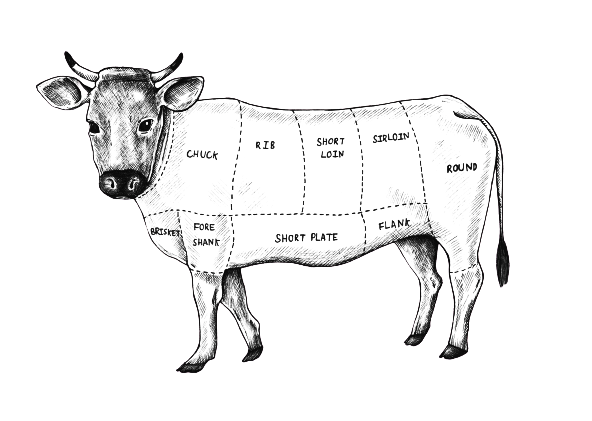
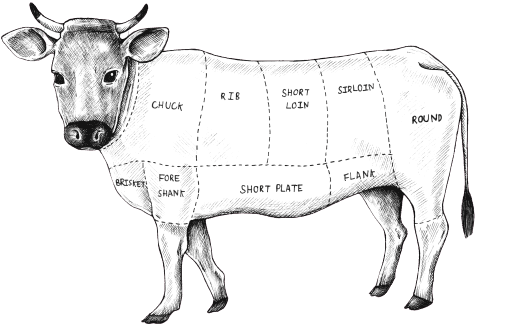
fixed

Changed region(s): [[0.0, 0.0, 0.9393, 1.0]]

diff --git a/dev/templates/animal.html b/dev/templates/animal.html
@@ -7,93 +7,99 @@
         </ul>
     </div>
     <div class="animals-container">
-        <svg class="animals-build img-fluid hidden" id="tab-1" xmlns="http://www.w3.org/2000/svg" xmlns:xlink="http://www.w3.org/1999/xlink" width="550" height="550"  viewBox="0 0 250 250" fill="none">
-            <g id="chicken">
-                <rect id="image-from-rawpixel-id-2764551-original 1" width="250" height="250" fill="url(#pattern1)"/>
-                <path class="chicken-part" id="Chicken-part_1" data-body-chicken="drumstick" data-weight-chicken="180-190g" data-quantity-chicken="11" 
-                    d="M120.5 144L115.5 140L114.5 144.5V148.5L115 151L114.5 153.5V157.5C114.5 157.9 115.833 162.667 116.5 165L118 169.5L120.5 176L123 181.5L126 185.5L131.5 189.5L137 193L140 194.5H143L144 197.5L146.5 204C147.333 206.5 149 211.6 149 212C149 212.4 150.667 216.833 151.5 219L153 225.5L153.5 228.5L152.5 231L151 232.5L148.5 233L147 234.5L143.5 235.5L140.5 236.5L137.5 237.5L135 238L134 239.5L135 240L134 242H135L136.5 240.5L139 240L140.5 239.5L143 239L146 237.5L148 236.5H150L151.5 237.5L150 238.5L148 239.5L146.5 241L146 243.5L146.5 244V246H147.5L148 243.5L149.5 241.5L151.5 240.5L155.5 239L158.5 237.5L161.5 233L162.5 231.5H164.5V230L163 229.5L161.5 228.5L160 227L159 224L157.5 218L156 193.5H157L163 190.5L168 187L173 183L179.5 178L186 172L187 168L188 161L187 154L184 151.5L183 148.5L179.5 145L178 144.5V147.5V150L176.5 151.5L174.5 153H172.5H170L166 152.5L163 151.5L159 151L154.5 150H148.5H142.5L137.5 149.5L132.5 149L126 147L120.5 144Z" />
-                <path class="chicken-part" id="Chicken-part_2" data-body-chicken="wing" data-weight-chicken="140-150g" data-quantity-chicken="17" 
-                    d="M95.5 118L92.5 121V122H95L97.5 123L99.5 125L102.5 128L108 133.5C108.4 133.9 113.167 138 115.5 140L118.5 142.5L122 144.5L127 147L132.5 149L138.5 149.5L143.5 150H147H152L155.5 150.5L158.5 151L162.5 151.5L165.5 152.5L168 153H170.5H173L175.5 152L176.5 151L178 149.5V147.5V145.5L178.5 144L178 141.5L176.5 139L177 135V131.5L176 127L174 122.5L172 118L168.5 115L163 108L161 105.5L158 103L156 101.5L154 100.5L151.5 99.5L148.5 98L145.5 97H142L138.5 97.5L133 99L128.5 101H126.5L122 103L119 103.5L114.5 105.5L111 107.5L106 109.5L102 112.5L95.5 118Z" />
-                <path class="chicken-part" id="Chicken-part_3" data-body-chicken="breast" data-weight-chicken="170-184g" data-quantity-chicken="Out of order" 
-                    d="M40.5 111L40 108.5L43 109L47 108.5L50.5 107.5L57 106L62 104.5L66 103L71 101.5V103L72.5 105.5L75 108.5L77.5 111L80.5 114L83.5 116.5L87.5 119L92 121.5L95 122L97.5 123L100 125.5L103.5 129L108 133.5L115.5 140L115 142.5L114.5 146.5L114 149L114.5 150.77V152.716L114 154.5L114.5 156.5L115 159L115.5 161.5L116.5 164L117 165.5L118 168V169.5L119.5 172L120 174L121 176V177L122.5 180L123.5 182L121.5 181.5L119.5 181H116.5L114 180.5H111.5H107L101.5 180L94 179.5L89 179L79.5 174.5L73.5 169.5L65 159L57.5 149L54.5 144.5L51.5 139L49.5 135.5L48 133L47 129.5L45.5 125.5L43.5 120L41.5 114.5L40.5 111Z" />
-                <path class="chicken-part" id="Chicken-part_4" data-body-chicken="tender loin" data-weight-chicken="80-100g" data-quantity-chicken="12" 
-                    d="M95 89.5L92.5 86L89 89.5L85.5 92L81 95.5L77 98L73.5 100L71 101.5V103L72.5 105.5L74.5 108L77 110.5L80 113.5L82.5 115.5L84.5 117.5L89 120L92 121.5L92.5 120.5L94 119L97 116.5L100 114L102.5 112L104.5 110.5L107 109L112 107L116.5 104.5L122 103L124 102L127.5 101L127 100L125.5 99.5H122.5H117.5H112.5L109 99L107 98.5L105 97.5L102.5 96.5L99.5 94L97 92L95 89.5Z"/>
-                <path class="chicken-part" id="Chicken-part_5" data-body-chicken="thigh" data-weight-chicken="210-230g" data-quantity-chicken="9" 
-                    d="M213.5 122.5L215 118H212.825L210.5 117L207.5 115.5L204 113.5L202 112L200.5 111L199 110L197 108L194.5 113L193 115.5L191 119L186.5 124.5L183 129.5L177 133V134V137L176.5 139L178 141.5L178.5 144L180 145.5L181.5 147L183.5 149L184.5 151.5L187 154L187.5 157.5L188 162L187.5 165L187 167.5L186.5 168.5L186 170.5V172L187 171L188.5 170L190 169L191.5 167.5L194 164.5L196.5 161.5L197 160.5L198.5 157L200 154L202.5 149L204.5 144.5L208 135.5L209.5 132.5L210 130.5L211.5 128.5L213 125.5L212.5 124.5L213.5 122.5Z" />
-                <path class="chicken-part" id="Chicken-part_6" data-body-chicken="tail" data-weight-chicken="2.5-4g" data-quantity-chicken="34" 
-                    d="M181 87L176.5 88L178 90L179.5 92L181 93.5L183 95.5L185.5 98L188 100.5L190.5 102.5L194 105L197 107.5L198 109C199.333 110.167 202.1 112.5 202.5 112.5C202.9 112.5 204.667 113.833 205.5 114.5L209.5 116.5L211.5 117.5L213.5 118H214.5L215 117.5L216 116.5L216.5 115L217.5 113.5L218 112L218.5 110L219 108.5L220 107.5L223 104.5L224.5 103.5L225.5 103L227 102L228 100.5L227 100L227.5 99.5L228 98.5L229 98L229.5 97L230.5 95.5V94.5H229.5V93.5L230 93L230.5 92.5L231 91.5L231.5 90.5V89.5H230.5V88L230 87.5V86.5V86L230.5 85L230 84.5L229.5 84V83L230 82.5V81.5V80.5L229.5 80L230.5 79H230L228.5 79.5L228 79L231 76.5L229 75.5L232 73.5V72L229 71L231 68.5H226V67H222.5H219L214 68.5L209 71L204 73.5L199.5 75.5L195.5 78.5L191.5 81.5L185.5 84.5L181 87Z" />
-                <path class="chicken-part" id="Chicken-part_7" data-body-chicken="back" data-weight-chicken="440-453g" data-quantity-chicken="18" 
-                    d="M101 81.5L98.5 78L95 83L92.5 86L96 91L101.5 95.5L107.5 98L113 99.5H118.5H123H126L128 101L131.5 99.5L136.5 98L141 97H145L148 98L151.5 99.5L156.5 102L160 105L165 110L168 114L172 118L175.5 126L177.5 133L180 131.5L183.5 129L185.5 126L188 122.5L191.5 118L194 114L196 110L197 107.5L196 106.5L191.5 103.5L187 99.5L183.5 96L180 92.5L176.5 88H170L163 87C160.167 86.3333 154.3 85 153.5 85H146H137.5L131.5 86L124 87H118.5H115L109.5 86L104.5 84L101 81.5Z"/>
-                <path class="chicken-part" id="Chicken-part_8" data-body-chicken="neck" data-weight-chicken="25-35g" data-quantity-chicken="24" 
-                    d="M40.5 83L37.5 82V83V89V94V99L38.5 105L40.5 109H43.5L48.5 108L53.5 107L59.5 105L65.5 103L71.5 101L77 98L83 94L89.5 89L93 85.5L97 81L98.5 77.5L97 75.5L94.5 69.5C93.8333 68 92.3 64.8 91.5 64C90.7 63.2 89.8333 60 89.5 58.5L87 52.5L84 46.5L82 51L80 54.5C79.3333 55.5 77.8 57.7 77 58.5C76.2 59.3 75.3333 60.8333 75 61.5L71.5 65L67 69.5L63.5 72L59.5 74.5L55 77.5L51 79.5L47 81L43.5 82L40.5 83Z"/>
-            </g>
-            <defs>
-                <pattern id="pattern1" patternContentUnits="objectBoundingBox" width="1" height="1">
-                    <use xlink:href="#image0_3_50" transform="scale(0.000333333)"/>
-                </pattern>
-                <image id="image0_3_50" class="image-fluid" data-name="image-from-rawpixel-id-2764551-original.png" width="3000" height="3000" xlink:href="assets/img/chicken.png"/>
-            </defs>
-        </svg>
-        <svg class="animals-build img-fluid hidden" id="tab-2" xmlns="http://www.w3.org/2000/svg" xmlns:xlink="http://www.w3.org/1999/xlink" width="546" height="366" viewBox="0 0 546 366" fill="none">
-            <g id="pig">
-                <rect id="image-from-rawpixel-id-2764531-original 1" width="546" height="366" fill="url(#pattern2)"/>
-                <path class="pig-part" id="pig-part_1"  data-body-pig="hock" data-weight-pig="0,9-1,3kg" data-quantity-pig="69"
-                    d="M410.28 265.088V257.246L417.3 261.951H427.44H438.36H453.18L464.1 260.383L461.76 265.088L464.1 273.716L469.56 279.206V283.911V287.833L467.22 294.891L464.1 303.518H459.42H452.4H444.6H438.36L433.68 301.166H427.44V294.891L425.1 287.833L421.98 283.911L417.3 279.206L413.4 273.716L410.28 265.088Z"/>
-                <path class="pig-part" id="pig-part_2"  data-body-pig="ham" data-weight-pig="4-8kg" data-quantity-pig="24"
-                    d="M422.76 46.2728H413.4L416.52 58.8214L420.42 69.0171V76.86V88.6243V98.82V104.31L418.08 110.584L416.52 120.78L414.18 128.623L413.4 134.897L411.06 143.524V149.799H408.72V154.504V160.779L405.6 166.269L402.48 176.464L400.14 185.876L397.8 196.071L394.68 206.267V217.247L397.8 228.227L402.48 231.364L405.6 238.423L408.72 247.834L411.06 256.461L414.18 259.599L420.42 261.951H426.66H432.9H439.92H447.72H454.74L463.32 259.599V253.324L466.44 243.129L470.34 231.364L476.58 223.521L483.6 214.11L489.06 206.267L494.52 196.071L501.54 183.523L506.22 170.19L512.46 154.504V140.387V123.917L510.12 112.153L506.22 98.82L500.76 88.6243L492.96 76.86L482.04 69.0171L475.8 63.5271L463.32 55.6843L451.62 52.5471L436.8 48.6257L422.76 46.2728Z"/>
-                <path class="pig-part" id="pig-part_3"  data-body-pig="bacon" data-weight-pig="15-18kg" data-quantity-pig="56"
-                    d="M230.1 236.854L235.56 248.619L251.94 250.972H265.98H285.48H301.86H314.34L324.48 248.619H336.18H346.32H354.9L367.38 244.697H375.96L386.88 243.129L400.92 239.992L405.6 236.854L400.92 229.796L396.24 224.306L395.46 215.679V207.836L397.8 196.072L400.92 181.954L405.6 168.622L408.72 159.21V152.152L400.92 145.877H393.12L383.76 142.74V148.23L380.64 152.152L377.52 159.21L370.5 172.543L359.58 185.092L351.78 191.366L346.32 196.072L343.98 200.777L336.18 205.483L320.58 215.679L308.1 221.169L297.18 226.659L285.48 229.796H275.34H265.98H256.62H247.26L235.56 226.659H225.42L230.1 236.854Z"/>
-                <path class="pig-part" id="pig-part_4"  data-body-pig="spareribs" data-weight-pig="0,9-1,8kg" data-quantity-pig="13"
-                    d="M382.98 147.446V141.956L372.06 139.603H364.26H359.58H349.44L340.08 137.25L330.72 136.466H314.34H298.74H284.7H273.78H262.08H252.72H243.36H236.34V141.956V153.72L233.22 167.053V180.386L232.44 190.581L230.1 196.071V203.914L228.54 216.463L224.64 226.659H232.44L243.36 229.011H257.4H269.88H280.8H288.6L294.84 226.659L308.1 221.169L319.02 216.463L326.82 211.757L333.84 207.051L342.42 201.561L346.32 196.071L351.78 190.581L359.58 184.307L364.26 178.033L368.94 172.543L372.06 167.053L376.74 159.21L379.86 153.72L382.98 147.446Z"/>
-                <path class="pig-part" id="pig-part_5"  data-body-pig="pork loin" data-weight-pig="3,7-4,5kg" data-quantity-pig="Out of order"
-                    d="M420.42 105.879V98.82L414.96 97.2515L409.5 96.4672H404.04L394.68 94.8986H389.22H379.08H370.5H360.36L357.24 96.4672H348.66L340.86 95.6829H333.06H326.04H321.36H315.12L306.54 92.5457H297.18H289.38H277.68H269.88L264.42 90.9772L261.3 92.5457H250.38H239.46L232.44 95.6829L234 101.957L232.44 109.8L234 115.29L236.34 123.917V135.681H239.46H244.14H247.26H253.5H258.18H267.54H277.68L284.7 137.25H291.72H301.86H309.66H319.02H329.16H340.86L350.22 139.603H361.92H370.5L381.42 141.956L391.56 144.309L399.36 145.877L404.04 148.23L409.5 150.583L411.84 148.23V141.956L413.4 137.25V133.329L416.52 123.917L418.08 112.937L420.42 105.879Z"/>
-                <path class="pig-part" id="pig-part_6"  data-body-pig="back" data-weight-pig="0,9-1,2kg" data-quantity-pig="23"
-                    d="M231.66 81.5657V94.1143L241.02 92.5457H246.48H255.84L265.98 90.9771L272.22 92.5457H281.58H290.16H298.74H308.1L316.68 94.1143L326.82 95.6828H335.4H341.64H348.66H354.12L358.8 94.1143H364.26H368.94H375.96H382.98H387.66H397.02L404.04 95.6828H408.72L419.64 98.82V94.1143V87.84V81.5657V69.8014L417.3 61.1743L414.96 52.5471L412.62 47.0571H409.5H404.04H387.66L358.8 49.41L335.4 52.5471L309.66 54.9H283.92H265.2H258.96H250.38H241.02H231.66H221.52L224.64 61.1743L228.54 69.8014L231.66 81.5657Z"/>
-                <path class="pig-part" id="pig-part_7"  data-body-pig="boston butt" data-weight-pig="2,7-3,6kg" data-quantity-pig="20"
-                    d="M156.78 169.406V174.896L163.02 177.249L175.5 180.386L188.76 184.307L202.02 187.444L216.84 191.366L223.08 194.503L229.32 199.209L231.66 196.071L233.22 187.444V178.817V169.406L235.56 159.994V148.23V137.25V122.349L233.22 111.369V102.741L231.66 95.6829H224.64H216.84H209.04L202.02 92.5458H191.88L183.3 90.1929L177.06 87.8401H170.82L161.46 86.2715L159.12 90.1929L161.46 98.0358L163.8 105.094V114.506V122.349L161.46 127.054V130.976V137.25V145.093L159.12 152.936V159.994L156.78 169.406Z"/>
-                <path class="pig-part" id="pig-part_8"  data-body-pig="hock" data-weight-pig="0,9-1,3kg" data-quantity-pig="69"
-                    d="M181.74 255.677L179.4 250.187H190.32H202.8H216.06L233.22 255.677V266.657L231.66 273.716L228.54 280.774V287.833L223.86 295.676L216.06 292.539H210.6L205.14 290.186H198.9L190.32 287.833V277.637L186.42 268.226L184.86 261.951L181.74 255.677Z"/>
-                <path class="pig-part" id="pig-part_9"  data-body-pig="picnic ham" data-weight-pig="2,2-3,6kg" data-quantity-pig="31"
-                    d="M162.24 178.033L155.22 175.68L156.78 192.15L155.22 207.051L159.12 218.816L165.36 225.09L170.82 230.58L176.28 239.991L178.62 249.403H189.54H205.14L222.3 251.756L233.22 255.677L235.56 249.403L233.22 244.697L230.1 236.07L224.64 225.09L226.98 218.816L230.1 213.326V204.699V197.64L224.64 195.287L215.28 192.15L205.14 189.013L195.78 186.66L187.2 184.307L178.62 181.954L170.82 179.601L162.24 178.033Z"/>
-                <path class="pig-part" id="pig-part_10" data-body-pig="jowl" data-weight-pig="0,5-1kg" data-quantity-pig="1" 
-                    d="M70.9797 180.386L63.1797 182.739L70.9797 189.013L83.4597 194.503L94.3797 198.424L102.96 204.699L121.68 218.031L138.06 224.306L150.54 229.796L160.68 233.717L166.92 236.07L175.5 237.639L172.38 233.717L166.92 227.443L160.68 221.953L159.12 214.894L156 204.699V196.856V186.66V179.601L154.44 175.68H147.42L138.06 173.327H132.6H127.92H121.68H116.22L109.2 175.68H93.5997L83.4597 178.033L70.9797 180.386Z"/>
-            </g>
-            <defs>
-                <pattern id="pattern2" patternContentUnits="objectBoundingBox" width="1" height="1">
-                    <use xlink:href="#image0_7_2" transform="matrix(0.000335165 0 0 0.0005 -0.00274725 0)"/>
-                </pattern>
-                <image id="image0_7_2" data-name="image-from-rawpixel-id-2764531-original.png" width="3000" height="2000" xlink:href="assets/img/pig.png" />
-            </defs>
-        </svg>
-        <svg class="animals-build img-fluid hidden" id="tab-3" xmlns="http://www.w3.org/2000/svg" xmlns:xlink="http://www.w3.org/1999/xlink" width="2083" height="1467" viewBox="0 0 2083 1467" fill="none">
-            <g id="cow">
-                <rect id="image-from-rawpixel-id-406178-jpeg-removebg-preview 1" width="2083" height="1467" fill="url(#pattern3)"/>
-                <path class= "cow-part" id="cow-part_1" data-body-cow="brisket" data-weight-cow="4,5-7,2kg" data-quantity-cow="31"
-                    d="M624.899 751.471V730.842L589.191 733.789L547.531 742.63L514.798 751.471L505.871 763.258L514.798 792.728L529.677 833.985L553.482 863.454L571.337 881.136L592.167 892.924L610.021 898.818L627.875 907.659L657.632 922.393V898.818L654.657 878.189L639.778 836.932L642.754 822.197L633.827 780.94L630.851 763.258L624.899 751.471Z" />
-                <path class= "cow-part" id="cow-part_2" data-body-cow="fore shank" data-weight-cow="9,07-10,2kg" data-quantity-cow="84"
-                    d="M812.37 766.205V754.418V751.471H788.564H764.758H743.928H729.05L702.268 745.577L690.366 742.63L657.633 733.789L639.778 730.842H633.827H624.9V733.789V754.418L630.851 763.258L633.827 783.887L636.803 804.516L639.778 819.25V836.932L645.73 851.667L654.657 878.189L657.633 898.818V919.446L660.608 928.287L666.56 934.181L675.487 940.075L690.366 945.969L714.171 948.916L743.928 951.863H764.758H782.613L788.564 943.022L794.516 937.128L800.467 913.552L809.394 892.924L821.297 863.454V842.826V807.463V780.94L812.37 766.205Z" />
-                <path class= "cow-part" id="cow-part_3" data-body-cow="short plate" data-weight-cow="28,2-30,7kg" data-quantity-cow="24"
-                    d="M1279.56 772.099L1267.65 739.682L1246.82 745.576L1220.04 748.523H1163.5H1086.14L1062.33 745.576H999.84H955.204H928.423H904.617L874.86 748.523H859.982H839.152L812.37 751.47V766.205L818.322 777.993L821.297 804.515V831.038V854.613L818.322 866.401L812.37 881.136L809.394 892.923L803.443 904.711L797.492 922.393L794.516 937.128L809.394 934.181L845.103 931.234L883.787 922.393L913.544 916.499L943.302 910.605H961.156H990.913H1011.74L1035.55 916.499H1053.4L1074.23 922.393L1101.01 928.287H1121.84H1145.65C1148.63 929.269 1156.36 930.644 1163.5 928.287C1170.65 925.929 1190.29 923.375 1199.21 922.393L1217.07 916.499L1240.87 904.711L1261.7 892.923L1282.53 881.136V863.454L1285.51 842.825V813.356V792.727L1279.56 772.099Z" />
-                <path class= "cow-part" id="cow-part_4" data-body-cow="flank" data-weight-cow="0,34-0,64kg" data-quantity-cow="79"
-                    d="M1502.74 713.16L1496.78 707.267L1475.95 710.214H1461.08H1440.25C1433.3 711.196 1418.82 713.16 1416.44 713.16C1413.46 713.16 1407.51 713.16 1398.59 716.107C1391.44 718.465 1385.69 719.054 1383.71 719.054H1371.8L1356.93 722.001L1339.07 724.948L1318.24 730.842L1300.39 733.789H1282.53L1267.65 739.683L1270.63 742.63L1276.58 760.312L1282.53 775.046L1285.51 786.834V813.357V842.826V854.614L1282.53 863.455V869.348V884.083L1294.44 878.189C1304.35 874.26 1324.79 865.812 1327.17 863.455C1329.55 861.097 1344.03 856.578 1350.97 854.614L1371.8 848.72L1392.63 839.879L1404.54 833.985L1419.42 831.038L1434.29 825.144H1446.2L1461.08 819.25H1475.95L1490.83 816.303H1502.74L1517.61 819.25V813.357L1514.64 795.675L1511.66 777.993L1508.69 766.205L1505.71 748.524L1502.74 727.895V713.16Z" />
-                <path class= "cow-part" id="cow-part_5" data-body-cow="round" data-weight-cow="80,2-88,4kg" data-quantity-cow="51"
-                    d="M1431.32 350.687H1407.51L1416.44 374.262L1437.27 409.625L1458.1 462.67L1481.91 548.132L1478.93 562.866V586.442L1484.88 615.911L1487.86 633.593L1490.83 657.169L1496.78 677.797V698.426L1502.74 713.16V730.842C1503.73 736.736 1505.71 749.703 1505.71 754.418C1505.71 760.312 1511.66 769.152 1511.66 772.099C1511.66 774.457 1513.65 784.869 1514.64 789.781L1517.61 813.356L1523.57 825.144L1535.47 836.932L1550.35 851.667L1562.25 863.455L1568.2 878.189L1577.13 892.924L1583.08 910.606L1580.1 948.916H1589.03L1609.86 945.969L1627.72 940.075L1651.52 934.181L1663.42 925.34L1684.25 919.446L1681.28 910.606V872.295L1699.13 810.41L1731.87 630.646L1743.77 586.442L1746.74 527.503V503.928C1742.78 496.069 1734.84 479.763 1734.84 477.405C1734.84 475.048 1720.96 456.776 1714.01 447.936L1690.21 418.466C1689.21 411.59 1686.64 397.838 1684.25 397.838C1681.28 397.838 1660.45 377.21 1657.47 374.262L1657.47 374.262C1654.5 371.315 1642.59 362.474 1636.64 359.527C1631.88 357.17 1622.76 348.722 1618.79 344.793L1600.93 338.899L1586.06 333.005H1556.3H1544.4L1529.52 338.899L1514.64 341.846C1511.66 342.828 1504.52 344.793 1499.76 344.793H1481.91H1467.03H1452.15H1440.25C1437.87 344.793 1433.3 348.722 1431.32 350.687Z" />
-                <path class= "cow-part" id="cow-part_6" data-body-cow="sirloin" data-weight-cow="6,5-7,4k" data-quantity-cow="31"
-                    d="M1249.8 377.209H1228.97L1237.9 391.943L1246.82 409.625L1252.78 424.36L1258.73 450.882L1264.68 474.458L1276.58 551.078V571.707V621.805L1273.61 654.221L1270.63 692.531L1267.65 722.001V739.683L1285.51 733.789H1303.36C1305.74 733.789 1324.19 729.859 1333.12 727.895L1353.95 722.001L1386.68 719.054L1410.49 713.16L1440.25 710.213H1467.03L1493.81 707.266V686.638V668.956L1487.86 639.487L1484.88 621.805L1481.91 598.229L1478.93 574.654V548.131L1472.98 521.609L1467.03 500.98L1461.08 477.405L1455.12 453.829L1446.2 436.147L1437.27 409.625L1428.34 394.89L1419.42 377.209L1413.46 365.421L1407.51 353.633H1395.61L1389.66 356.58H1380.73L1371.8 362.474H1356.93H1348L1330.14 368.368L1306.34 371.315H1288.48L1267.65 374.262L1249.8 377.209Z" />
-                <path class= "cow-part" id="cow-part_7" data-body-cow="short loin" data-weight-cow="9-12kg" data-quantity-cow="Out of order"
-                    d="M1050.43 383.102H1029.6V397.837L1038.52 406.678L1047.45 421.413L1053.4 442.041L1059.35 465.617L1065.31 498.033L1068.28 533.397L1071.26 559.919V610.017V645.38V686.638L1068.28 716.107L1059.35 745.576L1083.16 748.523H1101.01H1124.82H1148.63H1169.46H1217.07L1243.85 745.576L1267.65 739.682V722.001L1270.63 695.478L1273.61 671.903L1276.58 627.699V607.07V580.548V556.972L1273.61 533.397L1270.63 506.874L1267.65 486.245L1261.7 465.617L1258.73 450.882L1255.75 436.147L1252.78 421.413L1243.85 400.784L1237.9 388.996L1231.95 380.156C1224.01 381.138 1207.54 383.102 1205.16 383.102H1172.43H1145.65H1118.87H1080.18H1050.43Z" />
-                <path class= "cow-part" id="cow-part_8" data-body-cow="rib" data-weight-cow="16,2-18,4kg" data-quantity-cow="23"
-                    d="M851.055 353.633L833.2 344.792L836.176 350.686L848.079 368.368V394.89V486.245L842.128 509.821V527.503L833.2 556.972L836.176 571.707L830.225 589.388C828.241 598.229 824.273 616.5 824.273 618.858C824.273 621.215 818.322 639.487 815.346 648.327V677.797V701.372V733.789V751.47L854.03 748.523H883.788L913.545 745.576H955.205H987.938H1014.72H1041.5H1062.33L1068.28 713.16L1071.26 689.585V663.062V642.433V618.858V589.388L1068.28 527.503L1065.31 500.98L1062.33 474.458L1056.38 450.882L1050.43 427.307L1044.48 412.572L1032.57 397.837L1029.6 383.102H1020.67H999.84L981.986 380.156L967.108 377.209H949.253H934.375L916.52 371.315L889.739 368.368L868.909 362.474L851.055 353.633Z" />
-                <path class= "cow-part" id="cow-part_9" data-body-cow="chuck" data-weight-cow="45-47kg" data-quantity-cow="33"
-                    d="M612.997 421.413L607.046 383.102L624.9 388.996L645.73 383.102L669.536 374.262L687.39 362.474L693.341 344.792H723.099H758.807H788.564H833.2L848.079 365.421V397.837V421.413V453.829V486.245L842.127 509.821V527.503L833.2 554.025V571.707L827.249 598.229L821.297 624.752L815.346 648.327V674.85V713.16V751.47H806.419H782.613H758.807H732.026L702.269 745.576L669.536 736.736L639.779 730.842H618.949H598.119L577.289 736.736L559.434 739.683L541.58 745.576L517.774 751.47L505.871 760.311L496.944 733.789L476.114 695.478L496.944 686.638L517.774 674.85L532.653 663.062L550.507 639.486L565.386 615.911L580.264 589.388L592.167 548.131L601.094 518.662L607.046 486.245V459.723L612.997 421.413Z" />
-            </g>
-            <defs>
-                <pattern id="pattern3" patternContentUnits="objectBoundingBox" width="1" height="1">
-                    <use xlink:href="#image0_3_49" transform="matrix(0.00168919 0 0 0.00239849 0 -0.00488161)"/>
-                </pattern>
-                <image id="image0_3_49" data-name="image-from-rawpixel-id-406178-jpeg-removebg-preview.png" width="592" height="421" xlink:href="assets/img/cow.png"/>
-            </defs>
-        </svg>
+        <div class="animals-container__item hidden" id="tab-1">
+            <svg class="animals-build img-fluid" xmlns="http://www.w3.org/2000/svg" xmlns:xlink="http://www.w3.org/1999/xlink" width="550" height="550"  viewBox="0 0 250 250" fill="none">
+                <g id="chicken">
+                    <rect id="image-from-rawpixel-id-2764551-original 1" width="250" height="250" fill="url(#pattern1)"/>
+                    <path class="chicken-part" id="Chicken-part_1" data-body-chicken="drumstick" data-weight-chicken="180-190g" data-quantity-chicken="11" 
+                        d="M120.5 144L115.5 140L114.5 144.5V148.5L115 151L114.5 153.5V157.5C114.5 157.9 115.833 162.667 116.5 165L118 169.5L120.5 176L123 181.5L126 185.5L131.5 189.5L137 193L140 194.5H143L144 197.5L146.5 204C147.333 206.5 149 211.6 149 212C149 212.4 150.667 216.833 151.5 219L153 225.5L153.5 228.5L152.5 231L151 232.5L148.5 233L147 234.5L143.5 235.5L140.5 236.5L137.5 237.5L135 238L134 239.5L135 240L134 242H135L136.5 240.5L139 240L140.5 239.5L143 239L146 237.5L148 236.5H150L151.5 237.5L150 238.5L148 239.5L146.5 241L146 243.5L146.5 244V246H147.5L148 243.5L149.5 241.5L151.5 240.5L155.5 239L158.5 237.5L161.5 233L162.5 231.5H164.5V230L163 229.5L161.5 228.5L160 227L159 224L157.5 218L156 193.5H157L163 190.5L168 187L173 183L179.5 178L186 172L187 168L188 161L187 154L184 151.5L183 148.5L179.5 145L178 144.5V147.5V150L176.5 151.5L174.5 153H172.5H170L166 152.5L163 151.5L159 151L154.5 150H148.5H142.5L137.5 149.5L132.5 149L126 147L120.5 144Z" />
+                    <path class="chicken-part" id="Chicken-part_2" data-body-chicken="wing" data-weight-chicken="140-150g" data-quantity-chicken="17" 
+                        d="M95.5 118L92.5 121V122H95L97.5 123L99.5 125L102.5 128L108 133.5C108.4 133.9 113.167 138 115.5 140L118.5 142.5L122 144.5L127 147L132.5 149L138.5 149.5L143.5 150H147H152L155.5 150.5L158.5 151L162.5 151.5L165.5 152.5L168 153H170.5H173L175.5 152L176.5 151L178 149.5V147.5V145.5L178.5 144L178 141.5L176.5 139L177 135V131.5L176 127L174 122.5L172 118L168.5 115L163 108L161 105.5L158 103L156 101.5L154 100.5L151.5 99.5L148.5 98L145.5 97H142L138.5 97.5L133 99L128.5 101H126.5L122 103L119 103.5L114.5 105.5L111 107.5L106 109.5L102 112.5L95.5 118Z" />
+                    <path class="chicken-part" id="Chicken-part_3" data-body-chicken="breast" data-weight-chicken="170-184g" data-quantity-chicken="Out of order" 
+                        d="M40.5 111L40 108.5L43 109L47 108.5L50.5 107.5L57 106L62 104.5L66 103L71 101.5V103L72.5 105.5L75 108.5L77.5 111L80.5 114L83.5 116.5L87.5 119L92 121.5L95 122L97.5 123L100 125.5L103.5 129L108 133.5L115.5 140L115 142.5L114.5 146.5L114 149L114.5 150.77V152.716L114 154.5L114.5 156.5L115 159L115.5 161.5L116.5 164L117 165.5L118 168V169.5L119.5 172L120 174L121 176V177L122.5 180L123.5 182L121.5 181.5L119.5 181H116.5L114 180.5H111.5H107L101.5 180L94 179.5L89 179L79.5 174.5L73.5 169.5L65 159L57.5 149L54.5 144.5L51.5 139L49.5 135.5L48 133L47 129.5L45.5 125.5L43.5 120L41.5 114.5L40.5 111Z" />
+                    <path class="chicken-part" id="Chicken-part_4" data-body-chicken="tender loin" data-weight-chicken="80-100g" data-quantity-chicken="12" 
+                        d="M95 89.5L92.5 86L89 89.5L85.5 92L81 95.5L77 98L73.5 100L71 101.5V103L72.5 105.5L74.5 108L77 110.5L80 113.5L82.5 115.5L84.5 117.5L89 120L92 121.5L92.5 120.5L94 119L97 116.5L100 114L102.5 112L104.5 110.5L107 109L112 107L116.5 104.5L122 103L124 102L127.5 101L127 100L125.5 99.5H122.5H117.5H112.5L109 99L107 98.5L105 97.5L102.5 96.5L99.5 94L97 92L95 89.5Z"/>
+                    <path class="chicken-part" id="Chicken-part_5" data-body-chicken="thigh" data-weight-chicken="210-230g" data-quantity-chicken="9" 
+                        d="M213.5 122.5L215 118H212.825L210.5 117L207.5 115.5L204 113.5L202 112L200.5 111L199 110L197 108L194.5 113L193 115.5L191 119L186.5 124.5L183 129.5L177 133V134V137L176.5 139L178 141.5L178.5 144L180 145.5L181.5 147L183.5 149L184.5 151.5L187 154L187.5 157.5L188 162L187.5 165L187 167.5L186.5 168.5L186 170.5V172L187 171L188.5 170L190 169L191.5 167.5L194 164.5L196.5 161.5L197 160.5L198.5 157L200 154L202.5 149L204.5 144.5L208 135.5L209.5 132.5L210 130.5L211.5 128.5L213 125.5L212.5 124.5L213.5 122.5Z" />
+                    <path class="chicken-part" id="Chicken-part_6" data-body-chicken="tail" data-weight-chicken="2.5-4g" data-quantity-chicken="34" 
+                        d="M181 87L176.5 88L178 90L179.5 92L181 93.5L183 95.5L185.5 98L188 100.5L190.5 102.5L194 105L197 107.5L198 109C199.333 110.167 202.1 112.5 202.5 112.5C202.9 112.5 204.667 113.833 205.5 114.5L209.5 116.5L211.5 117.5L213.5 118H214.5L215 117.5L216 116.5L216.5 115L217.5 113.5L218 112L218.5 110L219 108.5L220 107.5L223 104.5L224.5 103.5L225.5 103L227 102L228 100.5L227 100L227.5 99.5L228 98.5L229 98L229.5 97L230.5 95.5V94.5H229.5V93.5L230 93L230.5 92.5L231 91.5L231.5 90.5V89.5H230.5V88L230 87.5V86.5V86L230.5 85L230 84.5L229.5 84V83L230 82.5V81.5V80.5L229.5 80L230.5 79H230L228.5 79.5L228 79L231 76.5L229 75.5L232 73.5V72L229 71L231 68.5H226V67H222.5H219L214 68.5L209 71L204 73.5L199.5 75.5L195.5 78.5L191.5 81.5L185.5 84.5L181 87Z" />
+                    <path class="chicken-part" id="Chicken-part_7" data-body-chicken="back" data-weight-chicken="440-453g" data-quantity-chicken="18" 
+                        d="M101 81.5L98.5 78L95 83L92.5 86L96 91L101.5 95.5L107.5 98L113 99.5H118.5H123H126L128 101L131.5 99.5L136.5 98L141 97H145L148 98L151.5 99.5L156.5 102L160 105L165 110L168 114L172 118L175.5 126L177.5 133L180 131.5L183.5 129L185.5 126L188 122.5L191.5 118L194 114L196 110L197 107.5L196 106.5L191.5 103.5L187 99.5L183.5 96L180 92.5L176.5 88H170L163 87C160.167 86.3333 154.3 85 153.5 85H146H137.5L131.5 86L124 87H118.5H115L109.5 86L104.5 84L101 81.5Z"/>
+                    <path class="chicken-part" id="Chicken-part_8" data-body-chicken="neck" data-weight-chicken="25-35g" data-quantity-chicken="24" 
+                        d="M40.5 83L37.5 82V83V89V94V99L38.5 105L40.5 109H43.5L48.5 108L53.5 107L59.5 105L65.5 103L71.5 101L77 98L83 94L89.5 89L93 85.5L97 81L98.5 77.5L97 75.5L94.5 69.5C93.8333 68 92.3 64.8 91.5 64C90.7 63.2 89.8333 60 89.5 58.5L87 52.5L84 46.5L82 51L80 54.5C79.3333 55.5 77.8 57.7 77 58.5C76.2 59.3 75.3333 60.8333 75 61.5L71.5 65L67 69.5L63.5 72L59.5 74.5L55 77.5L51 79.5L47 81L43.5 82L40.5 83Z"/>
+                </g>
+                <defs>
+                    <pattern id="pattern1" patternContentUnits="objectBoundingBox" width="1" height="1">
+                        <use xlink:href="#image0_3_50" transform="scale(0.000333333)"/>
+                    </pattern>
+                    <image id="image0_3_50" class="image-fluid" data-name="image-from-rawpixel-id-2764551-original.png" width="3000" height="3000" xlink:href="assets/img/chicken.png"/>
+                </defs>
+            </svg>
+        </div>
+        <div class="animals-container__item hidden" id="tab-2">
+            <svg class="animals-build img-fluid" xmlns="http://www.w3.org/2000/svg" xmlns:xlink="http://www.w3.org/1999/xlink" width="546" height="366" viewBox="0 0 546 366" fill="none">
+                <g id="pig">
+                    <rect id="image-from-rawpixel-id-2764531-original 1" width="546" height="366" fill="url(#pattern2)"/>
+                    <path class="pig-part" id="pig-part_1"  data-body-pig="hock" data-weight-pig="0,9-1,3kg" data-quantity-pig="69"
+                        d="M410.28 265.088V257.246L417.3 261.951H427.44H438.36H453.18L464.1 260.383L461.76 265.088L464.1 273.716L469.56 279.206V283.911V287.833L467.22 294.891L464.1 303.518H459.42H452.4H444.6H438.36L433.68 301.166H427.44V294.891L425.1 287.833L421.98 283.911L417.3 279.206L413.4 273.716L410.28 265.088Z"/>
+                    <path class="pig-part" id="pig-part_2"  data-body-pig="ham" data-weight-pig="4-8kg" data-quantity-pig="24"
+                        d="M422.76 46.2728H413.4L416.52 58.8214L420.42 69.0171V76.86V88.6243V98.82V104.31L418.08 110.584L416.52 120.78L414.18 128.623L413.4 134.897L411.06 143.524V149.799H408.72V154.504V160.779L405.6 166.269L402.48 176.464L400.14 185.876L397.8 196.071L394.68 206.267V217.247L397.8 228.227L402.48 231.364L405.6 238.423L408.72 247.834L411.06 256.461L414.18 259.599L420.42 261.951H426.66H432.9H439.92H447.72H454.74L463.32 259.599V253.324L466.44 243.129L470.34 231.364L476.58 223.521L483.6 214.11L489.06 206.267L494.52 196.071L501.54 183.523L506.22 170.19L512.46 154.504V140.387V123.917L510.12 112.153L506.22 98.82L500.76 88.6243L492.96 76.86L482.04 69.0171L475.8 63.5271L463.32 55.6843L451.62 52.5471L436.8 48.6257L422.76 46.2728Z"/>
+                    <path class="pig-part" id="pig-part_3"  data-body-pig="bacon" data-weight-pig="15-18kg" data-quantity-pig="56"
+                        d="M230.1 236.854L235.56 248.619L251.94 250.972H265.98H285.48H301.86H314.34L324.48 248.619H336.18H346.32H354.9L367.38 244.697H375.96L386.88 243.129L400.92 239.992L405.6 236.854L400.92 229.796L396.24 224.306L395.46 215.679V207.836L397.8 196.072L400.92 181.954L405.6 168.622L408.72 159.21V152.152L400.92 145.877H393.12L383.76 142.74V148.23L380.64 152.152L377.52 159.21L370.5 172.543L359.58 185.092L351.78 191.366L346.32 196.072L343.98 200.777L336.18 205.483L320.58 215.679L308.1 221.169L297.18 226.659L285.48 229.796H275.34H265.98H256.62H247.26L235.56 226.659H225.42L230.1 236.854Z"/>
+                    <path class="pig-part" id="pig-part_4"  data-body-pig="spareribs" data-weight-pig="0,9-1,8kg" data-quantity-pig="13"
+                        d="M382.98 147.446V141.956L372.06 139.603H364.26H359.58H349.44L340.08 137.25L330.72 136.466H314.34H298.74H284.7H273.78H262.08H252.72H243.36H236.34V141.956V153.72L233.22 167.053V180.386L232.44 190.581L230.1 196.071V203.914L228.54 216.463L224.64 226.659H232.44L243.36 229.011H257.4H269.88H280.8H288.6L294.84 226.659L308.1 221.169L319.02 216.463L326.82 211.757L333.84 207.051L342.42 201.561L346.32 196.071L351.78 190.581L359.58 184.307L364.26 178.033L368.94 172.543L372.06 167.053L376.74 159.21L379.86 153.72L382.98 147.446Z"/>
+                    <path class="pig-part" id="pig-part_5"  data-body-pig="pork loin" data-weight-pig="3,7-4,5kg" data-quantity-pig="Out of order"
+                        d="M420.42 105.879V98.82L414.96 97.2515L409.5 96.4672H404.04L394.68 94.8986H389.22H379.08H370.5H360.36L357.24 96.4672H348.66L340.86 95.6829H333.06H326.04H321.36H315.12L306.54 92.5457H297.18H289.38H277.68H269.88L264.42 90.9772L261.3 92.5457H250.38H239.46L232.44 95.6829L234 101.957L232.44 109.8L234 115.29L236.34 123.917V135.681H239.46H244.14H247.26H253.5H258.18H267.54H277.68L284.7 137.25H291.72H301.86H309.66H319.02H329.16H340.86L350.22 139.603H361.92H370.5L381.42 141.956L391.56 144.309L399.36 145.877L404.04 148.23L409.5 150.583L411.84 148.23V141.956L413.4 137.25V133.329L416.52 123.917L418.08 112.937L420.42 105.879Z"/>
+                    <path class="pig-part" id="pig-part_6"  data-body-pig="back" data-weight-pig="0,9-1,2kg" data-quantity-pig="23"
+                        d="M231.66 81.5657V94.1143L241.02 92.5457H246.48H255.84L265.98 90.9771L272.22 92.5457H281.58H290.16H298.74H308.1L316.68 94.1143L326.82 95.6828H335.4H341.64H348.66H354.12L358.8 94.1143H364.26H368.94H375.96H382.98H387.66H397.02L404.04 95.6828H408.72L419.64 98.82V94.1143V87.84V81.5657V69.8014L417.3 61.1743L414.96 52.5471L412.62 47.0571H409.5H404.04H387.66L358.8 49.41L335.4 52.5471L309.66 54.9H283.92H265.2H258.96H250.38H241.02H231.66H221.52L224.64 61.1743L228.54 69.8014L231.66 81.5657Z"/>
+                    <path class="pig-part" id="pig-part_7"  data-body-pig="boston butt" data-weight-pig="2,7-3,6kg" data-quantity-pig="20"
+                        d="M156.78 169.406V174.896L163.02 177.249L175.5 180.386L188.76 184.307L202.02 187.444L216.84 191.366L223.08 194.503L229.32 199.209L231.66 196.071L233.22 187.444V178.817V169.406L235.56 159.994V148.23V137.25V122.349L233.22 111.369V102.741L231.66 95.6829H224.64H216.84H209.04L202.02 92.5458H191.88L183.3 90.1929L177.06 87.8401H170.82L161.46 86.2715L159.12 90.1929L161.46 98.0358L163.8 105.094V114.506V122.349L161.46 127.054V130.976V137.25V145.093L159.12 152.936V159.994L156.78 169.406Z"/>
+                    <path class="pig-part" id="pig-part_8"  data-body-pig="hock" data-weight-pig="0,9-1,3kg" data-quantity-pig="69"
+                        d="M181.74 255.677L179.4 250.187H190.32H202.8H216.06L233.22 255.677V266.657L231.66 273.716L228.54 280.774V287.833L223.86 295.676L216.06 292.539H210.6L205.14 290.186H198.9L190.32 287.833V277.637L186.42 268.226L184.86 261.951L181.74 255.677Z"/>
+                    <path class="pig-part" id="pig-part_9"  data-body-pig="picnic ham" data-weight-pig="2,2-3,6kg" data-quantity-pig="31"
+                        d="M162.24 178.033L155.22 175.68L156.78 192.15L155.22 207.051L159.12 218.816L165.36 225.09L170.82 230.58L176.28 239.991L178.62 249.403H189.54H205.14L222.3 251.756L233.22 255.677L235.56 249.403L233.22 244.697L230.1 236.07L224.64 225.09L226.98 218.816L230.1 213.326V204.699V197.64L224.64 195.287L215.28 192.15L205.14 189.013L195.78 186.66L187.2 184.307L178.62 181.954L170.82 179.601L162.24 178.033Z"/>
+                    <path class="pig-part" id="pig-part_10" data-body-pig="jowl" data-weight-pig="0,5-1kg" data-quantity-pig="1" 
+                        d="M70.9797 180.386L63.1797 182.739L70.9797 189.013L83.4597 194.503L94.3797 198.424L102.96 204.699L121.68 218.031L138.06 224.306L150.54 229.796L160.68 233.717L166.92 236.07L175.5 237.639L172.38 233.717L166.92 227.443L160.68 221.953L159.12 214.894L156 204.699V196.856V186.66V179.601L154.44 175.68H147.42L138.06 173.327H132.6H127.92H121.68H116.22L109.2 175.68H93.5997L83.4597 178.033L70.9797 180.386Z"/>
+                </g>
+                <defs>
+                    <pattern id="pattern2" patternContentUnits="objectBoundingBox" width="1" height="1">
+                        <use xlink:href="#image0_7_2" transform="matrix(0.000335165 0 0 0.0005 -0.00274725 0)"/>
+                    </pattern>
+                    <image id="image0_7_2" data-name="image-from-rawpixel-id-2764531-original.png" width="3000" height="2000" xlink:href="assets/img/pig.png" />
+                </defs>
+            </svg>
+        </div>
+        <div class="animals-container__item hidden" id="tab-3">
+            <svg class="animals-build img-fluid" xmlns="http://www.w3.org/2000/svg" xmlns:xlink="http://www.w3.org/1999/xlink" width="761" height="473" viewBox="0 0 761 473" fill="none">
+                <g id="cow">
+                    <rect id="cow (1) (1) 1" width="761" height="473" fill="url(#pattern3)"/>
+                    <path class= "cow-part" id="cow-part_1"  data-body-cow="brisket" data-weight-cow="4,5-7,2kg" data-quantity-cow="31"
+                        d="M213.5 238.5V230.5H207L203 231.5C201.5 232 197.8 233.1 195 233.5C192.2 233.9 189.5 234.667 188.5 235L184 236.5L178.5 237.5L172 238.5L166.5 241.5L163.5 243V248.5L165 253L166.5 258.5L168 263L170 267L173 274L176 279L180 283L184 287.5L187.5 290.5L191 293L195 298.5L200 301L203.5 302.5H207.5L212 304.5L219 309L226.5 311.5V293L224.5 290.5L222.5 284.5L219 276V268.5V263L217.5 259.5L215.5 255V248.5L213.5 244.5V238.5Z"/>
+                    <path class= "cow-part" id="cow-part_2" data-body-cow="fore shank" data-weight-cow="9,07-10,2kg" data-quantity-cow="84"
+                        d="M293 243.5V238L288.5 239.5H280H268.5L261.5 240.5L252 238L242 237.5L234.5 236L226.5 232L219 230H213.5V232V238V243.5C214.167 245.833 215.5 250.8 215.5 252C215.5 253.2 216.5 256.833 217 258.5L219 264.5V267.5C219.167 270.167 219.6 275.8 220 277C220.4 278.2 221.833 284.167 222.5 287L225.5 292.5V296.5L226.5 303V310L227.5 315L230 319.5H234.5L241 323H247L254.5 324.5H261.5H268H276H282V322L283 319.5L287 317.5L285.5 314L288.5 304.5L291 295.5L294.5 284.5L296 275.5V266.5V262L294.5 254.5L293 248.5V243.5Z"/>
+                    <path class= "cow-part" id="cow-part_3" data-body-cow="short plate" data-weight-cow="28,2-30,7kg" data-quantity-cow="24"
+                        d="M486.5 239L484.5 235L474 237H469.5L463 238H457.5H449H442H435L427 237H418.5H409.5H400H388H381.5H375.5H369H363.5H355H348.5H338.5H331.5H326.5H321.5H317.5H311.5L303.5 238.5H299H292.5V246L293.5 253L295 262.5V272V285.5L291 296.5L288.5 305.5L286 311.5L285 314.5L286 317.5H291H295L306.5 315C311.167 314.333 320.7 313 321.5 313C322.3 313 326.5 311 328.5 310L337.5 308.5H348.5H359.5H367.5H375.5H381.5L390.5 310L398 311.5L404.5 313L409.5 315H422.5H436L447 313L453.5 311.5L463 308.5L472 304L482.5 300L489 296.5L490.5 293L492 287V280.5V273.5V264.5V255L490.5 249L489 243L486.5 239Z"/>
+                    <path class= "cow-part" id="cow-part_4" data-body-cow="flank" data-weight-cow="0,34-0,64kg" data-quantity-cow="79"
+                        d="M583 226.5L580.5 220.5H570L557.5 222H550.5L542 223.5L532.5 225.5L525 226.5L515 229L508 231H503L498 231.5L492.5 233H487.5L484.5 234L485 237L489 242.5L490.5 248.5L492.5 255.5V267V275.5V280L491.5 284.5L490.5 289L489 296.5L495.5 294.5L502 291.5L513 287.5L518 284.5L527.5 281.5L536 278L550.5 272.5L561 270L571.5 268C573 267.667 576.3 267 577.5 267H582.5L587.5 268L593.5 270L591.5 266L590.5 259.5L587.5 251L585.5 240.5L584 233L583 226.5Z"/>
+                    <path class= "cow-part" id="cow-part_5" data-body-cow="round" data-weight-cow="80,2-88,4kg" data-quantity-cow="51"
+                        d="M548.5 67.5L544.5 69L547 76.5L548.5 79L552 83.5L554 89.5L557 95.5L559 103L561.5 108L563.5 111.5L565 116L566 120L567 124L569 128.5L569.5 130.5L570.5 133L571 137.5L570.5 142L572 146L573 152L574.5 157L574 164.5L575.5 168.5V173L576 177.5L577.5 180V187L578.5 197.5L579 203V206.5L580 209L580.5 213.5V216.5L581 219.5C581.333 220.833 582.1 223.6 582.5 224C582.9 224.4 583 226.833 583 228L584 232L584.5 237L585.5 245L587.5 251L589 256.5L590.5 261.5L591.5 267.5L594.5 271.5L598.5 275.5L602.5 279L605 282L609 287L612.5 291.5L614.5 296L616 300L617.5 305V309.5V314.5V321V323.5H623L630 322.5L635.5 321L641.5 319L646 317.5L652.5 315.5L657 311.5L659.5 309.5V306.5V301.5V296V293L660.5 288.5L661.5 283L662.5 277L664.5 271.5L666 265.5L667.5 260.5V256.5L668.5 252L669.5 247.5C670.167 245.833 671.8 240.9 673 234.5L674 227.5L676 223.5V219C676.167 217.167 676.5 213.3 676.5 212.5C676.5 211.7 677.833 209.5 678.5 208.5L679.5 202.5V195L680.5 190.5L682.5 183.5V178L684.5 173.5L686.5 167L687.5 164V157.5V151V140V131.5L686.5 127.5L682.5 121.5L678.5 116L674 110.5L671 106.5L668.5 103.5L666.5 100.5L665 96.5L664 93L662.5 89.5L657.5 84L643 73L635 67.5C632.333 65.8333 626.6 62.3 625 61.5C623.4 60.7 618.667 60.1667 616.5 60H608L600 61.5L596 63.5L585.5 65L580.5 66H573H564H559L556 67.5H552.5H548.5Z"/>
+                    <path class= "cow-part" id="cow-part_6" data-body-cow="sirloin" data-weight-cow="6,5-7,4k" data-quantity-cow="31"
+                        d="M484.5 230.5L485 234.5L488.5 234L492.5 232.5C494.167 232.333 497.6 232 498 232C498.4 232 502.167 231.333 504 231L507.5 230.5L514.5 229L520 228L525 226.5L530.5 226L536.5 225L542 223.5C543.667 223.167 547.8 222.5 551 222.5C553.4 222.5 558.333 221.833 560.5 221.5C563.333 221.333 569.1 221 569.5 221H575H580V219V214C580 213.6 579.667 211.167 579.5 210V205.5L578 202L577.5 187V179.5L576 177.5L575.5 173.5V167L574 164.5V157L573 148.5L571 142V136.5L570 132V129.5L568.5 127L566.5 122.5L565.5 117L562.5 109.5L559 102.5L557.5 97.5L554 89.5L552.5 85.5L550.5 80L548 77.5L546 73.5C545.6 72.7 544.5 70.1667 544 69H541.5H535.5L532 70L527.5 71.5H523.5L519.5 72.5L515.5 73.5H511.5L509 74.5H504.5L502.5 75.5H498L494.5 76.5H491H488L485 77.5H479.5L475 78.5L472 79L471 80L471.5 83L472 85.5L473.5 88.5L478 94.5V99L479.5 102.5L482 110.5L482.5 113.5V119V125.5L484 129L484.5 132.5L488 151V204.5L486.5 210.5V215L485.5 218.5V225L484.5 230.5Z"/>
+                    <path class= "cow-part" id="cow-part_7" data-body-cow="short loin" data-weight-cow="9-12kg" data-quantity-cow="Out of order"
+                        d="M390 82.5H385L387 91.5L390.5 98.5L393 105L395 112.5L397.5 119.5L399.5 129.5V141.5L400.5 144.5L402 152V154V197.5V206L401.5 208L399.5 217V223V231V237L409 237.5H415H420H425L433.5 238H443H451.5C454.167 237.833 459.7 237.5 460.5 237.5H464C464.8 237.5 466.333 237.167 467 237H469L470.5 236H472.5L480.5 235.5L485 234.5L484.5 231V228L485.5 224.5V218.5L486.5 215V210.5L488 203.5V195.5V185V176V160V151C487.667 149.333 487 145.9 487 145.5C487 145.1 486.333 141.667 486 140L485 135L484 129L482.5 124.5V122V113.5L481 106.5L478.5 99.5L477.5 94L474.5 90L472 84.5L471 80.5H465.5H459L450 81.5L435.5 82.5H429.5H423H418.5H414H409H401.5H395H390Z"/>
+                    <path class= "cow-part" id="cow-part_8" data-body-cow="rib" data-weight-cow="16,2-18,4kg" data-quantity-cow="23"
+                        d="M302 239H294V230V213.5L295.5 198V184L298.5 176V171L299.5 166L300.5 159.5L302 152L305 143V135.5L307 126V114V104V92V84V78.5L305.5 73L303.5 67.5L311.5 70L319 73L327.5 75.5L337 77.5L349 80L366.5 81.5L375 82.5H385L388 93.5L392 101L394.5 110L397 117L399.5 129V141L402 152V169V185V196.5V206L399.5 216.5V226.5V237H394.5H385H375H363.5H347.5H333.5H321.5H310L302 239Z"/>
+                    <path class= "cow-part" id="cow-part_9" data-body-cow="chuck" data-weight-cow="45-47kg" data-quantity-cow="33"
+                        d="M155.5 213L149 216L151.5 220L154 225L158 230.5L162 235.5V243L170 239.5L176.5 237.5L186.5 235.5L197 232.5L206 230.5H216.5L226 232.5L235 235.5L247.5 237.5L257.5 239.5H265.5H273.5H281.5H288.5L293.5 237.5V226V211.5L295 200V191.5V184.5L298.5 174.5V164.5L301 152L305 142V134.5L307 126V114.5V104V97V89V80L305 68.5L295 64H286H276.5L269.5 66.5H263.5H252.5L242.5 68.5L238 72.5L232 77L226 80L216.5 83.5H211.5H206V97V114.5L203.5 134.5L197 157.5L191 172.5L186.5 184.5L179.5 195L170 203.5L162 209L155.5 213Z" fill="#A52A2A" fill-opacity="0.5"/>
+                </g>
+                <defs>
+                    <pattern id="pattern3" patternContentUnits="objectBoundingBox" width="1" height="1">
+                        <use xlink:href="#image0_20_13" transform="matrix(0.00195695 0 0 0.00314849 0 -0.0195012)"/>
+                    </pattern>
+                    <image id="image0_20_13" data-name="cow (1) (1).png" width="511" height="330" xlink:href="assets/img/cow.png"/>
+                </defs>
+            </svg>
+        </div>
         <div class="animals-info hidden">
             <div class="animals-part-name">
                 <h4>Body part:</h4><div id="part" class="cell"></div>

diff --git a/dev/sass/animal.scss b/dev/sass/animal.scss
@@ -27,6 +27,9 @@
         padding: 0 20px;
         max-width: 1000px;
         margin: 0 auto;
+        &__item {
+            margin: 0;
+        }
     }
     & .hidden {
         display: none;
@@ -72,6 +75,13 @@
 
 @media (max-width: 704px) {
     .animals {
+        &__list {
+            flex-direction: column;
+            align-items: center;
+            & > li {
+                margin: 10px 0;
+            }
+        }
         &-container {
             justify-content: center;
             flex-direction: column-reverse;

diff --git a/dev/assets/js/script.js b/dev/assets/js/script.js
@@ -29,7 +29,7 @@ binSvg('.cow-part', 'data-body-cow', 'data-weight-cow', 'data-quantity-cow')
 animalSvg()
 
 const tabHeader = document.querySelectorAll('.animals__item');
-const tabContent = document.querySelectorAll('.animals-build');
+const tabContent = document.querySelectorAll('.animals-container__item');
 const tabInfo = document.querySelector('.animals-info');
 
 for (let item of tabHeader) {
